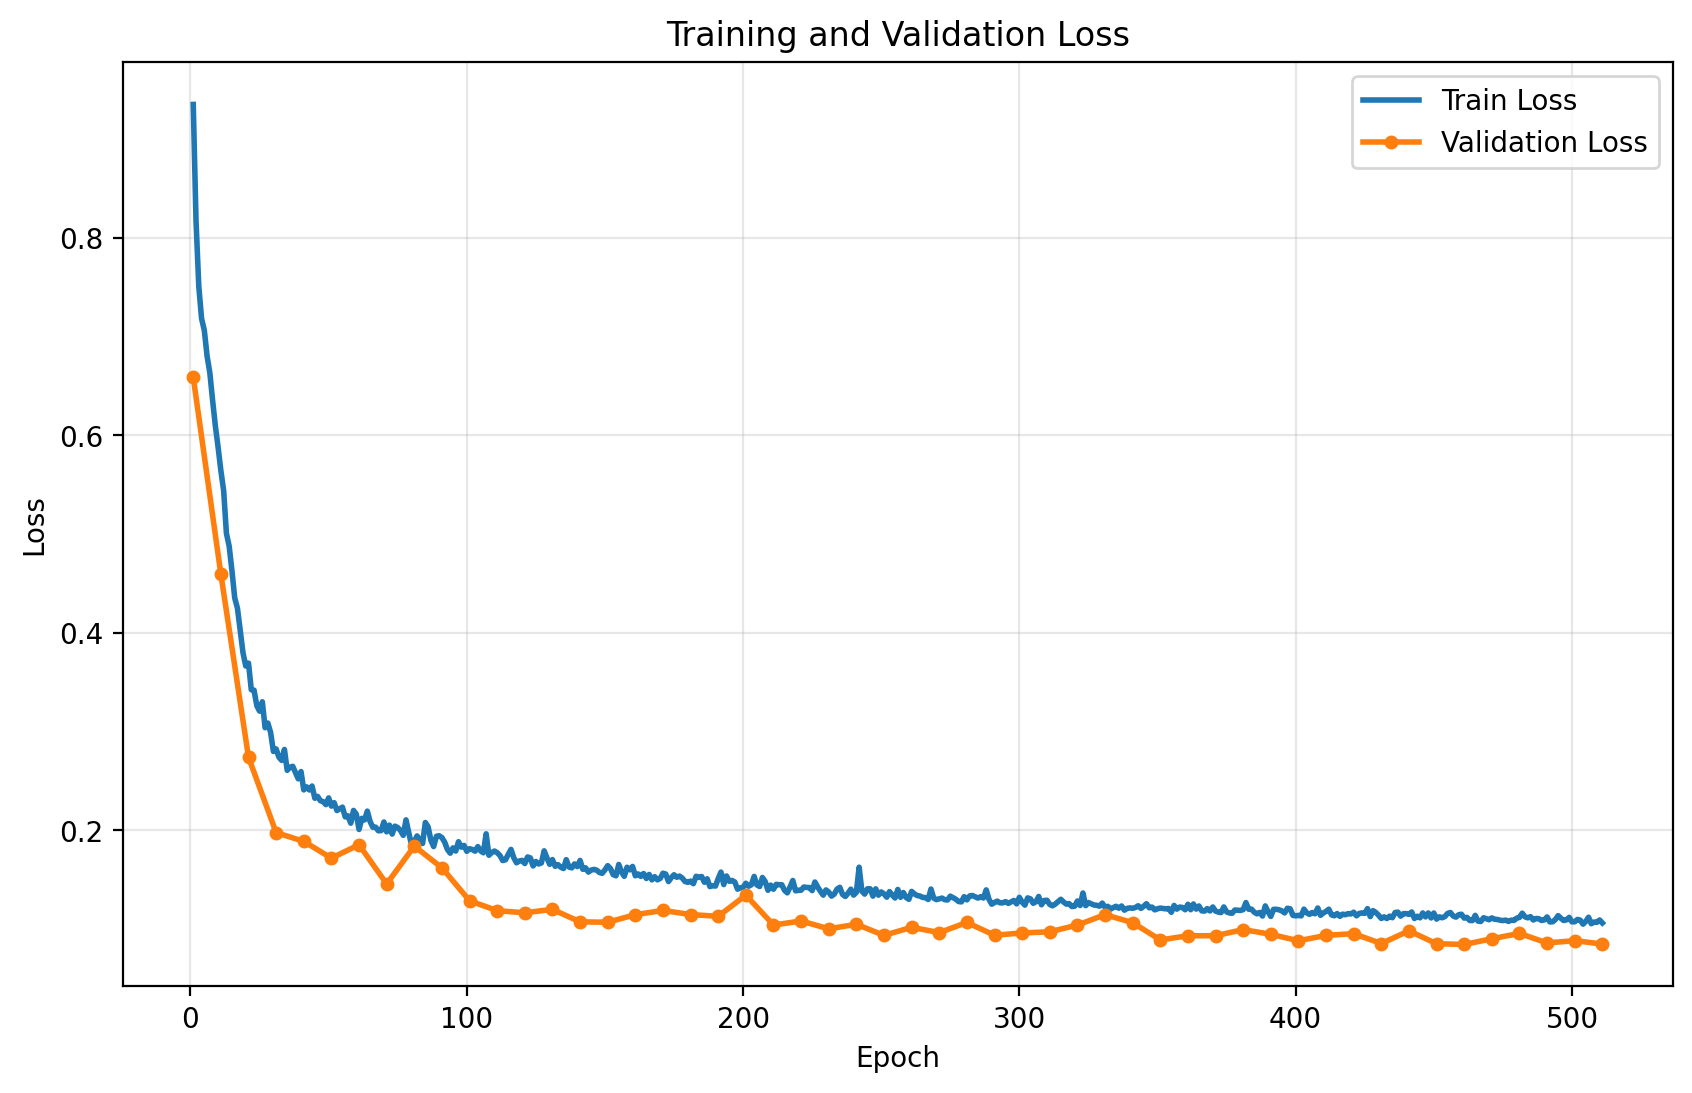
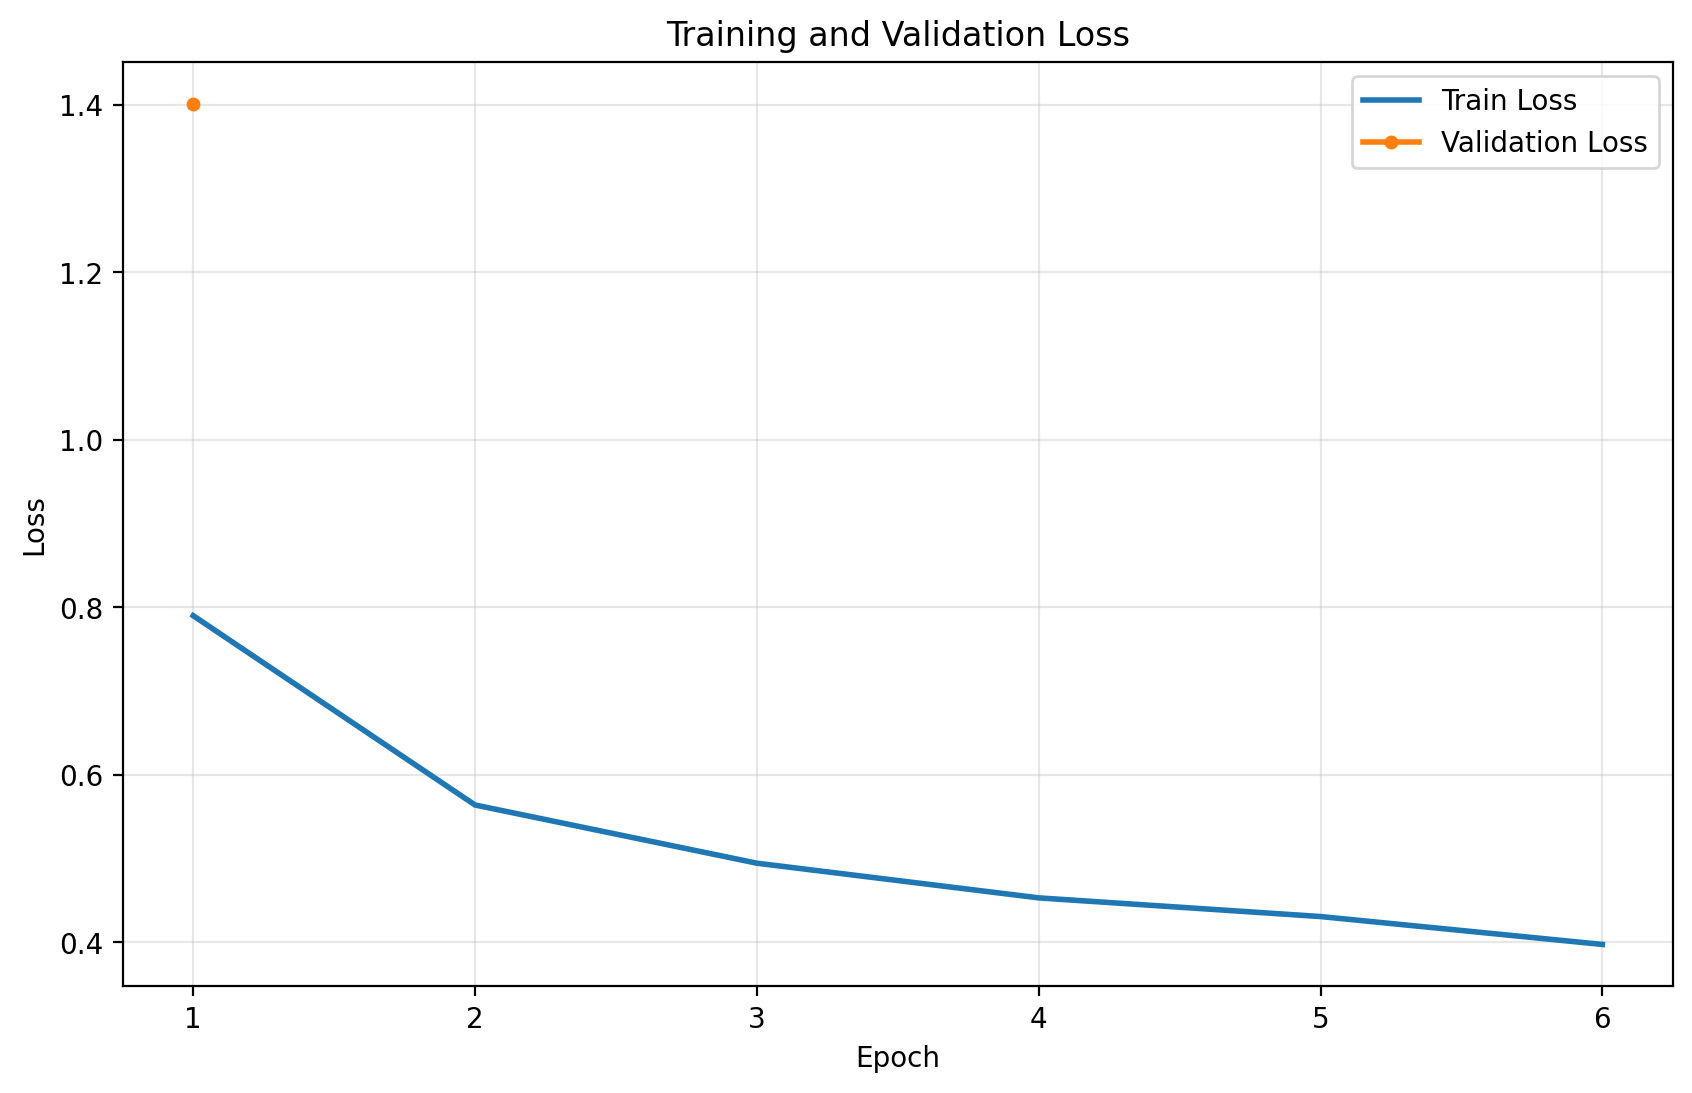
Added error plot for evaluation

diff --git a/Mojoco_Contact_Wind_Estimation/evaluate_metrics.py b/Mojoco_Contact_Wind_Estimation/evaluate_metrics.py
@@ -21,6 +21,104 @@ SETTLE_SPEED_THRESH = 0.01 * BLOCK_WIDTH       # per-step COM displacement below
 SETTLE_RUN          = 5                          # consecutive sub-threshold frames => settled
 
 
+def plot_phase_error_curves(trajectory_folder, model, Wall, test_trajectory_indices,
+                            nodes_per_edge, nearest_neighbors, rest_positions,
+                            accel_std, accel_mean, x_mean, x_std, e_mean, e_std,
+                            weights_only_load, unscale_trajectory_data, h, use_wind=False,
+                            zero_at_phase_start=True, min_frac=0.5, save_path=None):
+    """
+    Per-frame error vs time, split into airborne / contact / settled, averaged over
+    the test set (mean +/- 1 std band). Re-indexes each phase to 'frames since phase
+    start' so trajectories with different contact times align.
+
+    zero_at_phase_start: subtract each trajectory's error at its phase start, so each
+        panel shows GROWTH within the phase (y can go negative => error shrank).
+    min_frac: only plot frames where >= this fraction of trajectories still contribute.
+    """
+    phases = ['airborne', 'contact', 'settled']
+    center_segs = {p: [] for p in phases}
+    angle_segs  = {p: [] for p in phases}
+
+    N = len(test_trajectory_indices)
+    print(f"[phase curves] rolling out {N} test trajectories "
+          f"(use_wind={use_wind})...", flush=True)
+
+    for i, throw_number in enumerate(test_trajectory_indices, 1):
+        pred_positions, true_positions, _ = rollout_trajectory_feedback_shape_match(
+            trajectory_folder, model, Wall,
+            throw_number=throw_number,
+            nodes_per_edge=nodes_per_edge, nearest_neighbors=nearest_neighbors,
+            rest_positions=rest_positions, accel_std=accel_std, accel_mean=accel_mean,
+            x_mean=x_mean, x_std=x_std, e_mean=e_mean, e_std=e_std,
+            do_shape_match=True, shape_alpha=1.0, return_edge_info=True,
+            weights_only_load=weights_only_load,
+            unscale_trajectory_data=unscale_trajectory_data, h=h, use_wind=use_wind,
+        )
+        m = compute_metrics(pred_positions, true_positions, rest_positions)
+        ce = m['center_error_t'].numpy()
+        ae = m['angle_error_t_deg'].numpy()
+        tc, ts = compute_phase_boundaries(true_positions)
+        bounds = {'airborne': (0, tc), 'contact': (tc, ts), 'settled': (ts, len(ce))}
+        for p in phases:
+            a, b = bounds[p]
+            if b - a < 1:
+                continue
+            cseg, aseg = ce[a:b].copy(), ae[a:b].copy()
+            if zero_at_phase_start:
+                cseg = cseg - cseg[0]
+                aseg = aseg - aseg[0]
+            center_segs[p].append(cseg)
+            angle_segs[p].append(aseg)
+
+        print(f"  [{i:>3}/{N}] traj {throw_number}: "
+              f"airborne {tc:>3}  contact {ts - tc:>3}  settled {len(ce) - ts:>3} frames",
+              flush=True)
+
+    print(f"[phase curves] rollouts done, building figure...", flush=True)
+
+    def stack_stats(seg_list):
+        if not seg_list:
+            return None
+        maxlen = max(len(s) for s in seg_list)
+        arr = np.full((len(seg_list), maxlen), np.nan)
+        for i, s in enumerate(seg_list):
+            arr[i, :len(s)] = s
+        return (np.nanmean(arr, axis=0), np.nanstd(arr, axis=0),
+                np.sum(~np.isnan(arr), axis=0))
+
+    fig, axes = plt.subplots(2, 3, figsize=(15, 8))
+    row_info = [(center_segs, 'center error (/width)'), (angle_segs, 'angle error (deg)')]
+    for row, (segdict, ylabel) in enumerate(row_info):
+        for col, p in enumerate(phases):
+            ax = axes[row, col]
+            stats = stack_stats(segdict[p])
+            if stats is None:
+                ax.set_title(f"{p}: no data"); ax.grid(alpha=0.3); continue
+            mean, std, n = stats
+            keep = n >= max(3, int(min_frac * n.max()))
+            x = np.arange(len(mean))[keep]
+            ax.plot(x, mean[keep], color='C0', lw=2)
+            ax.fill_between(x, (mean - std)[keep], (mean + std)[keep], alpha=0.25, color='C0')
+            if zero_at_phase_start:
+                ax.axhline(0.0, color='k', lw=0.6, ls='--', alpha=0.5)
+            med_len = int(np.median([len(s) for s in segdict[p]]))
+            if row == 0:
+                ax.set_title(f"{p}  (n={len(segdict[p])}, median {med_len} frames)")
+            if row == 1:
+                ax.set_xlabel("frames since phase start")
+            if col == 0:
+                ax.set_ylabel(ylabel)
+            ax.grid(alpha=0.3)
+
+    ttl = "Per-phase error growth" + ("  (zeroed at phase start)" if zero_at_phase_start else "  (absolute)")
+    fig.suptitle(ttl, fontsize=13)
+    plt.tight_layout()
+    if save_path:
+        plt.savefig(save_path, dpi=150, bbox_inches='tight')
+        print(f"Saved phase error curves to {save_path}")
+    plt.show()
+
+
 def compute_phase_boundaries(true_positions,
                              contact_z_thresh=CONTACT_Z_THRESH,
                              settle_speed_thresh=SETTLE_SPEED_THRESH,

diff --git a/Mojoco_Contact_Wind_Estimation/run_multi_step.py b/Mojoco_Contact_Wind_Estimation/run_multi_step.py
@@ -153,6 +153,7 @@ display_stats = True
 show_meshed_cube = False
 show_augmentation = False
 show_rollout = False
+plot_phase_curves = True
 
 #!!!!!!!!!!!!!!!!!!!!!!!!!!!!!!!!!!!!!!!!!!!!!!!!!!!!!!!!!!!!!!!!!!!!!!!!!!!!!!!!!!!!!!!!!!!!!!!!!!!!!!!!!!!!!!!!
 #---------------------------------------------------------------------------------------------------------
@@ -366,6 +367,16 @@ if show_augmentation:
         save_path=os.path.join(script_dir, "Gifs/Showing_Rotated_Cube.gif"),
         nodes_per_edge=nodes_per_edge,
         nearest_neighbors=K_nearest_neighbors,
+    )
+
+if plot_phase_curves:
+    evaluate_metrics.plot_phase_error_curves(
+        trajectory_folder, model, Floor, test_range, nodes_per_edge,
+        K_nearest_neighbors, nodes_body, accel_std, accel_mean,
+        x_mean, x_std, e_mean, e_std, weights_only_load, unscale_trajectory_data,
+        pos_history, use_wind=use_wind_feature,
+        zero_at_phase_start=True,
+        save_path=os.path.join(script_dir, "Plots/Error_plot.png")
     )
 
 

diff --git a/Mojoco_Contact_Wind_Estimation/perturbation_floor.py b/Mojoco_Contact_Wind_Estimation/perturbation_floor.py
@@ -65,7 +65,7 @@ PERTURB_MODE = "toss_start"
 # When True, skip the sweep and instead replay ONE reference toss (blue) against
 # its N_PERTURB perturbations (red, transparent) in a single MuJoCo viewer, so you
 # can eyeball that the perturbed trajectories really are nearly on top of each other.
-VISUALIZE     = False
+VISUALIZE     = True
 VIS_EPS_MULT  = 10.0    # which epsilon level to visualize (one of EPS_MULTIPLIERS)
 VIS_PLAYBACK  = 0.02   # seconds between replayed frames
 
@@ -277,7 +277,7 @@ def visualize_overlay(model, mult, rng):
     T = min([len(ref_qpos)] + [len(p) for p in pert_qpos_list])
 
     with mujoco.viewer.launch_passive(vmodel, vdata) as viewer:
-        time.sleep(2)
+        time.sleep(15)
         for t in range(T):
             # ref occupies qpos[0:7], pert i occupies qpos[7*(i+1):7*(i+2)]
             vdata.qpos[0:3] = ref_qpos[t, :3]